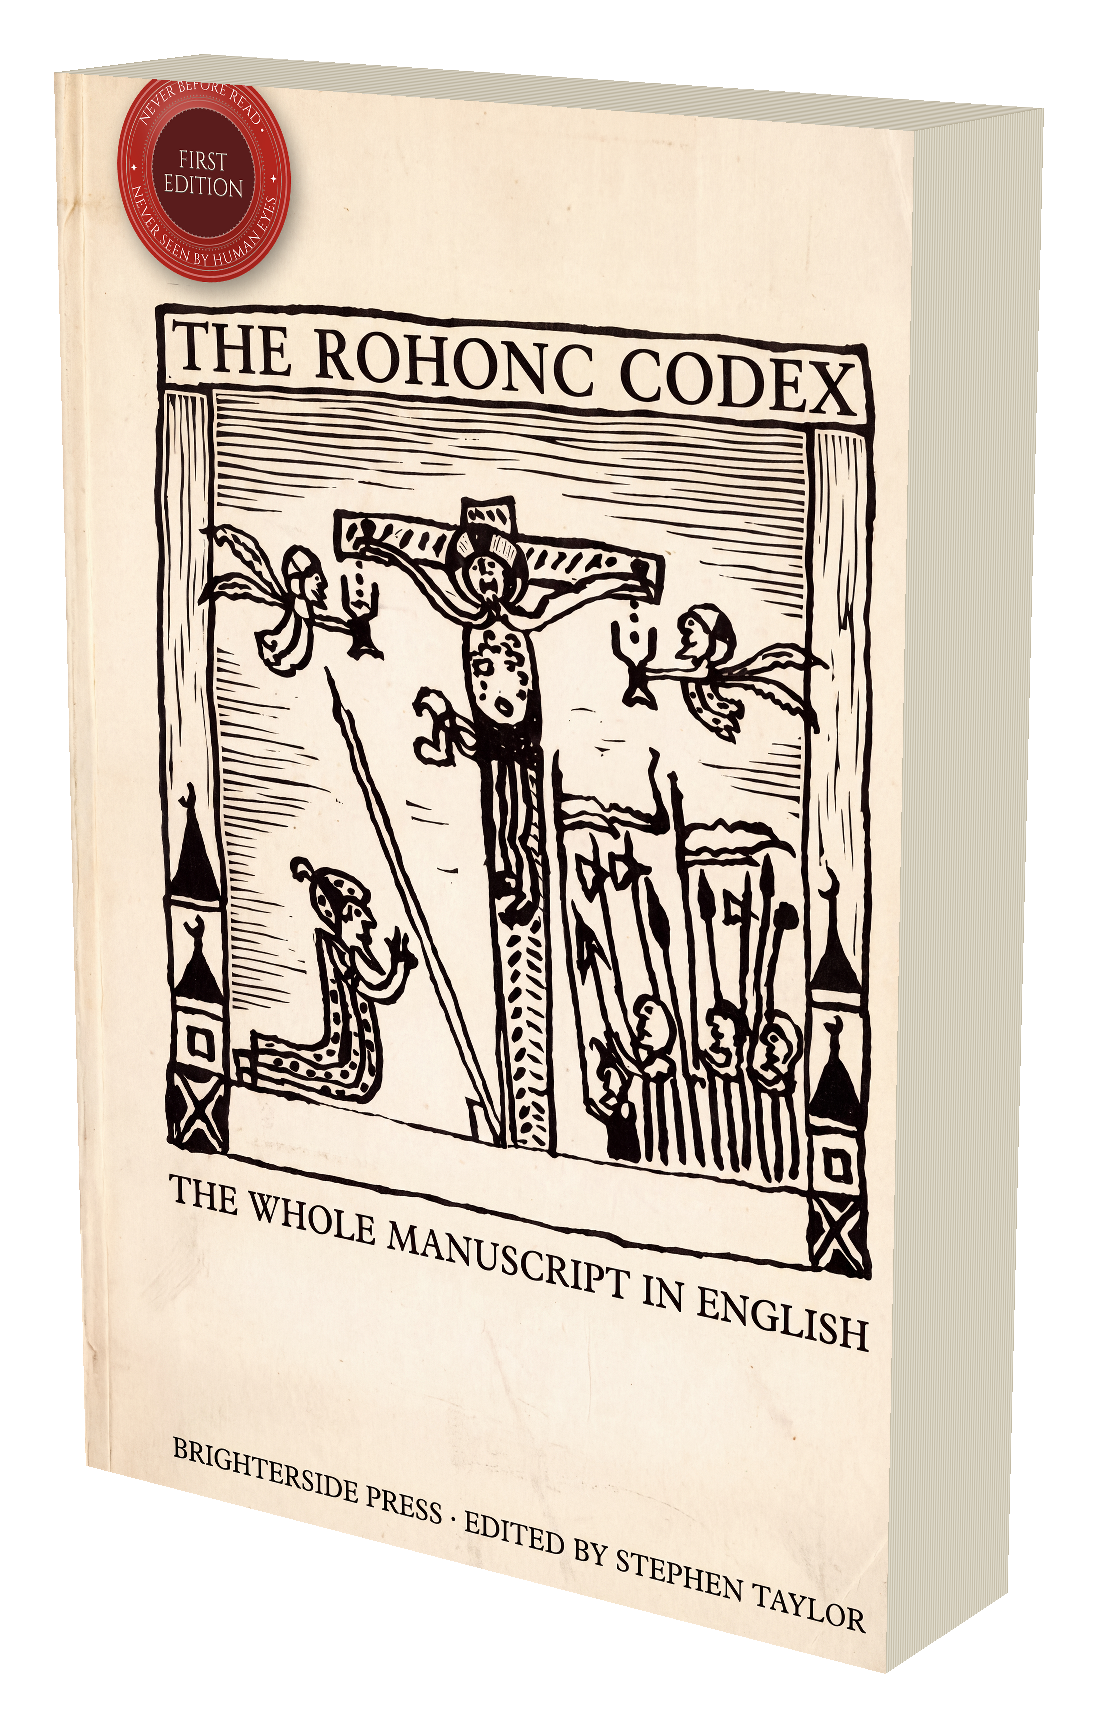
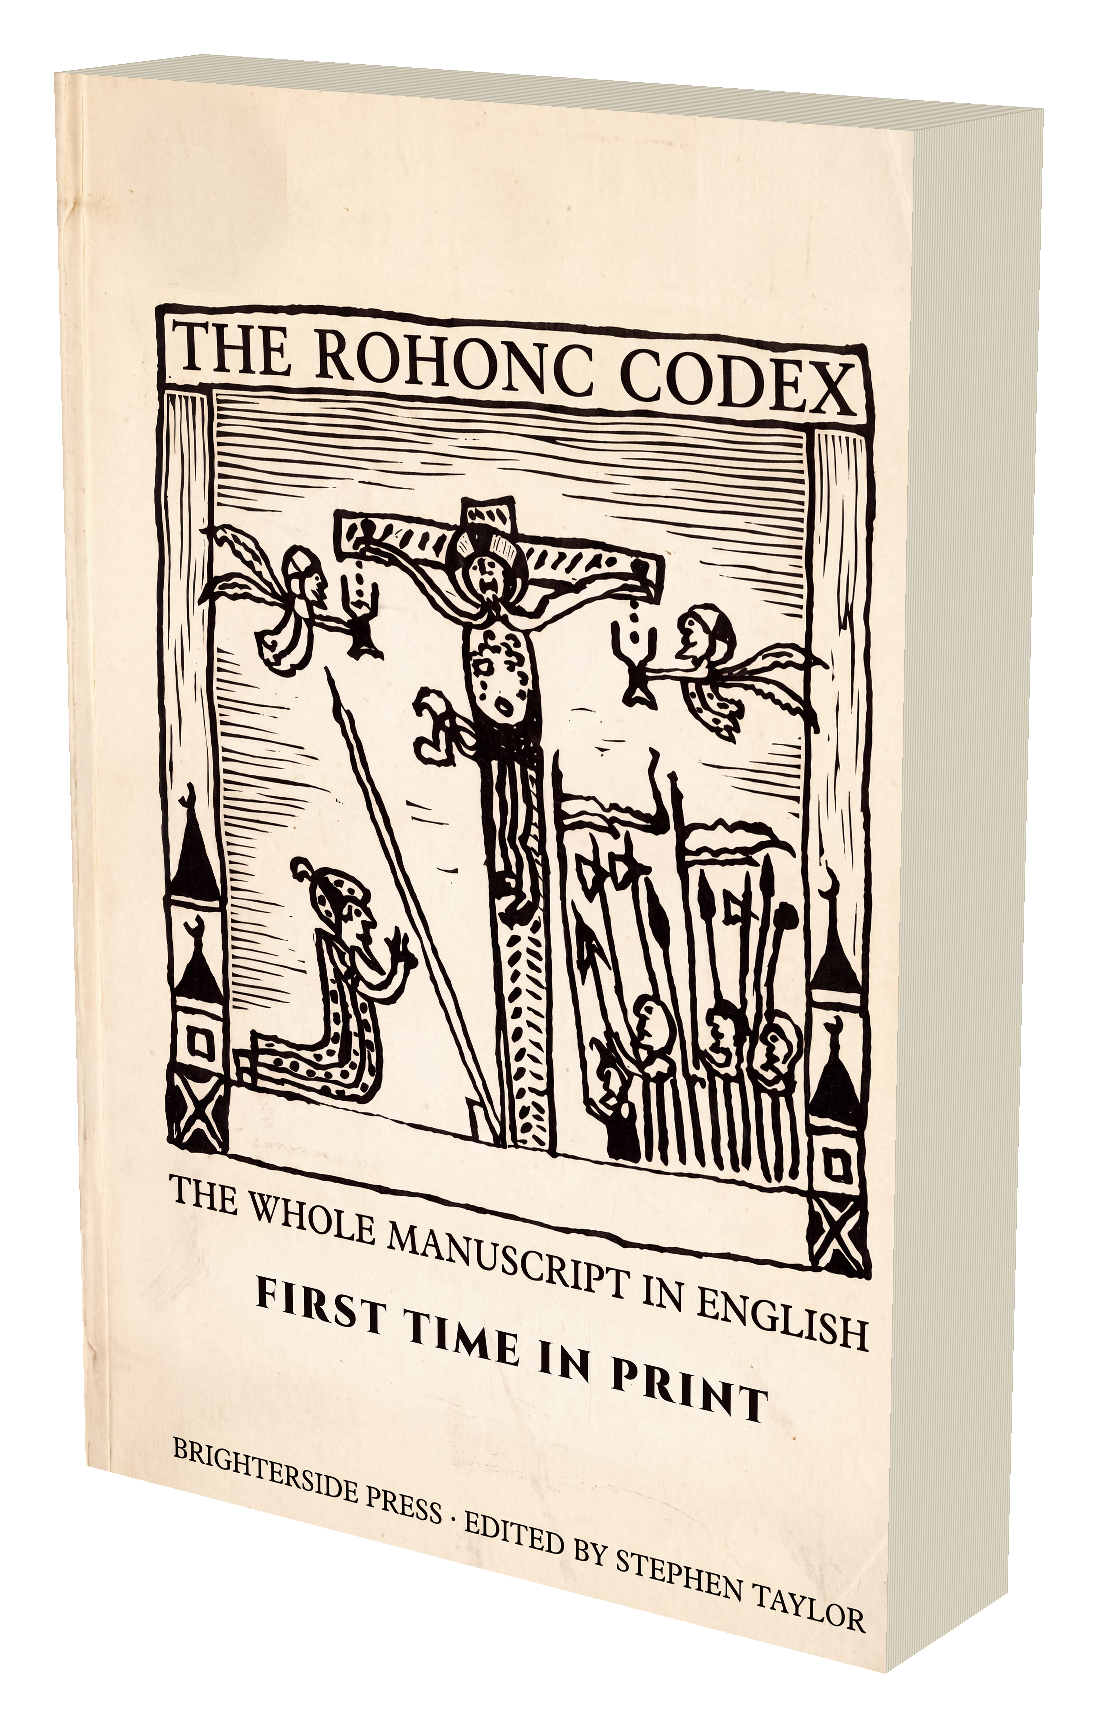
Cover: the seal comes off; FIRST TIME IN PRINT is set into the art in Cinzel Black at the subtitle's height and ink; the roundel patch is tone-matched to the paper; front re-imported to the shelf book, EPUB and reader rebuilt, wrap checked, 3-D mock regenerated

diff --git a/RESUME.md b/RESUME.md
@@ -1,23 +1,26 @@
 # Where this stopped — 2026-09-22
 
-## THE COVER BADGE — DONE 2026-09-22 (Cover Maker design 20260921-212932-2sdz)
+## THE COVER — DONE 2026-09-22 (Cover Maker design 20260921-212932-2sdz)
 
 The baked "THE FIRST COMPLETE ENGLISH RENDERING" roundel is cloned out of the
-raw art (`gen/20260921-212932-2sdz.png`, backup `.png.pre-badge-20260922`) and
-a real Cover Maker badge stands in its place, in the saved design
-(`.meta.json`, backup `.meta.json.pre-badge-20260922`): shape `seal`, flat,
-#b3261e, white ink, `badge_show` true, placed by `badge_x` 0.185 / `badge_y`
-0.072, size 0.82. Text "FIRST EDITION" in the disc; `badge_text2` "NEVER
-BEFORE READ  •  NEVER SEEN BY HUMAN EYES" splits onto the top and bottom arcs
-(a text2 over 16 characters is rim-split). It clears the title box.
+raw art with paper from the same rows, tone-matched to the annulus round the
+hole (`gen/20260921-212932-2sdz.png`; the untouched art is
+`.png.pre-badge-20260922`). A Cover Maker seal was tried in its place and taken
+off again; the owner wanted the line in the cover's own lettering. So "FIRST
+TIME IN PRINT" is SET INTO THE ART, Cinzel Black (the variable Cinzel.ttf has
+Regular/Bold/Black), sized to the baked subtitle's 110px cap height, ink
+(20,7,8) measured from that subtitle, centred on its axis (x 0.536), at y 4180
+of 5056 in the empty space between the subtitle and the imprint. No badge keys
+remain in the design. Why not a native slot: every front-text slot and the
+`text` badge draw a knock-out halo and load the Regular weight, and the baked
+lines on this cover are heavy; on cream paper the halo reads as a smudge.
 
-Carried through: the composed front (300 dpi, 2560px) is the shelf book's
-`cover.jpg` (backup `cover.jpg.pre-seal-20260922`), the EPUB carries the same
-bytes, the reader's copy is republished, the 6x9 wrap renders with the seal on
-the front only, and the site's `img/book3d.png` is regenerated with the
-studio's own `book3d.snapshot` at rx -14 / ry -34 from the composed wrap — the
-master is `work/rohonc/book3d.png` and ktsite copies it. The KDP wrap is
-downloaded from the studio as before; the design opens there as it is now.
+Carried through: the composed front is the shelf book's `cover.jpg` (backup
+`cover.jpg.pre-seal-20260922` is the roundel version), the EPUB carries the
+same bytes, the reader's copy is republished, the 6x9 wrap renders with the
+line on the front only, and `work/rohonc/book3d.png` is regenerated with the
+studio's `book3d.snapshot` (rx -14, ry -34) and copied to the site by ktsite.
+The KDP wrap is downloaded from the studio as before.
 
 ## THE NEXT THING TO DO: THE GITHUB REPOSITORY
 
